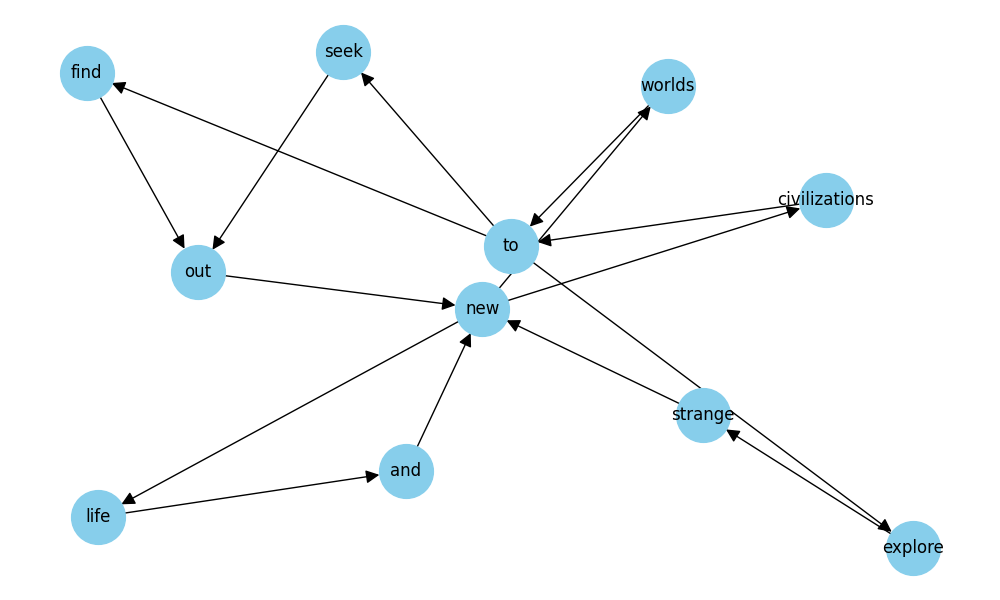
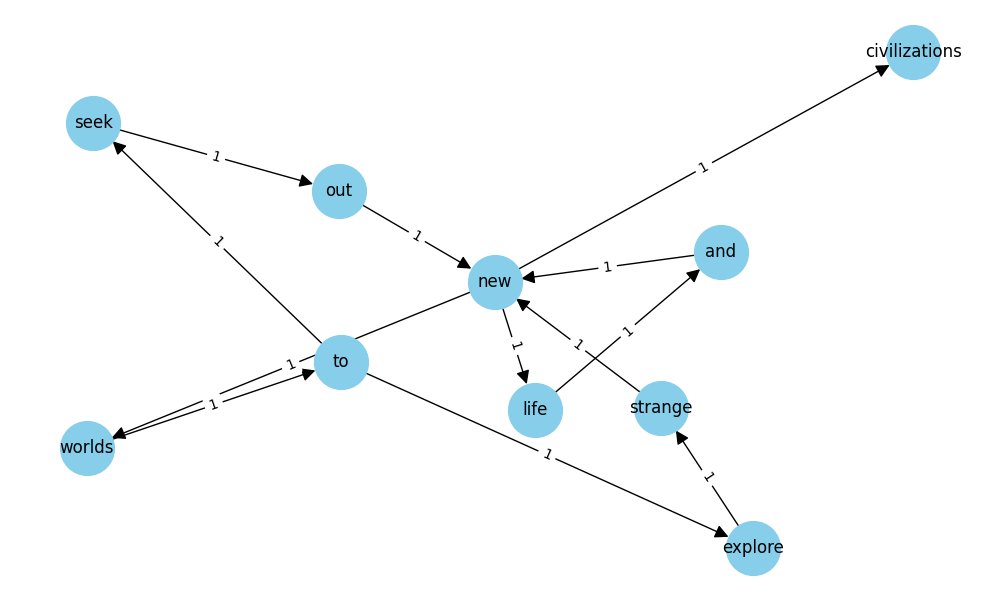
latest

diff --git a/main.py b/main.py
@@ -3,6 +3,9 @@ import tkinter as tk
 import networkx as nx
 import string
 import random
+import heapq
+from collections import defaultdict
+from collections import deque
 from matplotlib.figure import Figure
 from matplotlib.backends.backend_tkagg import FigureCanvasTkAgg
 from PIL import Image, ImageTk
@@ -12,7 +15,29 @@ def preprocess_text(text):
     # 替换非字母字符为空格
     translation_table = str.maketrans(string.punctuation, ' ' * len(string.punctuation))
     cleaned_text = text.translate(translation_table)
-    return cleaned_text
+    return cleaned_text.lower()
+
+
+def traverse_graph(graph):
+    # 初始化一个空列表存储节点名称
+    node_names = []
+
+    # 定义一个辅助函数进行深度优先搜索
+    def dfs(node):
+        # 将当前节点加入到节点名称列表中
+        node_names.append(node)
+
+        # 遍历当前节点的所有邻居节点
+        for neighbor in graph.neighbors(node):
+            # 如果邻居节点还没有被访问过,递归访问它
+            if neighbor not in node_names:
+                dfs(neighbor)
+
+    # 从图中任意一个节点开始进行深度优先搜索
+    for node in graph.nodes():
+        if node not in node_names:
+            dfs(node)
+    return node_names
 
 
 def build_directed_graph(text):
@@ -22,12 +47,19 @@ def build_directed_graph(text):
     # 创建有向图
     graph = nx.DiGraph()
 
-    # 添加节点和边
+    # 字典来存储每对相邻单词出现的次数
+    edge_weights = defaultdict(int)
+
+    # 遍历单词并记录权重
     for i in range(len(words) - 1):
         current_word = words[i].lower()
         next_word = words[i + 1].lower()
         if current_word != next_word:  # 排除自环
-            graph.add_edge(current_word, next_word)
+            edge_weights[(current_word, next_word)] += 1
+
+    # 添加节点和边到图中
+    for (current_word, next_word), weight in edge_weights.items():
+        graph.add_edge(current_word, next_word, weight=weight)
 
     return graph
 
@@ -36,26 +68,86 @@ def draw_and_save_graph(graph, output_file):
     # 创建一个新的 Figure 对象
     figure = plt.figure(figsize=(10, 6))
     pos = nx.spring_layout(graph)
+
+    # 绘制节点和边
     nx.draw(graph, pos, with_labels=True, node_color='skyblue', node_size=1500, edge_color='black', linewidths=1,
             arrowsize=20)
+
+    # 获取边的权值
+    edge_labels = nx.get_edge_attributes(graph, 'weight')
+
+    # 绘制边的权值
+    nx.draw_networkx_edge_labels(graph, pos, edge_labels=edge_labels)
+
     plt.title("Directed Graph")
 
     # 保存图形到磁盘
     plt.savefig(output_file)
     return figure
 
+def draw_and_save_graph_1(graph, paths, output_file):
+    figure = plt.figure(figsize=(10, 6))
+    pos = nx.spring_layout(graph)
+
+    # 绘制节点和边
+    nx.draw(graph, pos, with_labels=True, node_color='skyblue', node_size=1500, edge_color='black', linewidths=1,
+            arrowsize=20)
+
+    # 获取边的权值
+    edge_labels = nx.get_edge_attributes(graph, 'weight')
+    nx.draw_networkx_edge_labels(graph, pos, edge_labels=edge_labels)
+
+    # 高亮显示所有最短路径
+    if paths:
+        colors = plt.cm.get_cmap('tab10', len(paths))  # 使用颜色映射
+        for idx, path in enumerate(paths):
+            edges = [(path[i], path[i + 1]) for i in range(len(path) - 1)]
+            nx.draw_networkx_edges(graph, pos, edgelist=edges, edge_color=[colors(idx)], width=2.5)
+
+    plt.title("Directed Graph with Shortest Paths")
+
+    # 保存图形到磁盘
+    plt.savefig(output_file)
+    return figure
+
+
+def all_simple_paths(graph, start, goal):
+    def dfs(current, goal, path, visited, result):
+        if current == goal:
+            result.append(path[:])
+            return
+        for neighbor in graph[current]:
+            if neighbor not in visited:
+                visited.add(neighbor)
+                path.append(neighbor)
+                dfs(neighbor, goal, path, visited, result)
+                path.pop()
+                visited.remove(neighbor)
+
+    result = []
+    dfs(start, goal, [start], {start}, result)
+    return result
+
 
 def find_bridge_words(graph, word1, word2):
+    if word1 not in graph or word2 not in graph:
+        return None
+
     # 查找word1到word2的所有可能路径
-    all_paths = nx.all_simple_paths(graph, source=word1, target=word2)
+    try:
+        # all_paths = nx.all_simple_paths(graph, source=word1, target=word2)
+        all_paths = all_simple_paths(graph, word1, word2)
+    except nx.exception.NodeNotFound:
+        return None
 
     # 初始化桥接词列表
     bridge_words = []
 
     # 遍历每条路径
     for path in all_paths:
-        if len(path) == 3:
+        if len(path) == 3:  # 路径长度为3意味着有一个桥接词
             bridge_words.append(path[1])
+
     return bridge_words
 
 
@@ -63,30 +155,62 @@ def generate_by_bridge_words(graph, text):
     cleaned_text = preprocess_text(text)
     words = cleaned_text.split()
     word2add = []
+
+    # 寻找所有可能的桥接词并记录
     for i in range(len(words) - 1):
-        for j in range(i + 1, len(words) - 1):
-            bridge_words = find_bridge_words(graph, words[i], words[j])
-            if bridge_words:
-                word2add.append([words[i], words[j], random.choice(bridge_words)])
-    for triplet in word2add:
-        target_word = triplet[2]
-        first_word = triplet[0]
-        second_word = triplet[1]
-        # 找到第一个元素在s中的索引
-        try:
-            index = words.index(first_word)
-        except ValueError:
-            continue
-        # 在第一个元素后面继续搜索，直到找到第二个元素
-        if words[index + 1] == second_word:
-            # 将目标词插入到找到的位置
-            words.insert(index + 1, target_word)
+        bridge_words = find_bridge_words(graph, words[i], words[i + 1])
+        if bridge_words:
+            word2add.append((i, random.choice(bridge_words)))
+
+    # 按记录的位置插入桥接词
+    offset = 0
+    for index, bridge_word in word2add:
+        words.insert(index + 1 + offset, bridge_word)
+        offset += 1
+
     return words
 
+def all_shortest_paths(graph, start, target, weight='weight'):
+    # 使用优先队列跟踪当前节点的所有路径和距离
+    queue = [(0, start, [])]  # (累计权重, 当前节点, 路径)
+    min_dist = {start: 0}
+    all_paths = []
+
+    while queue:
+        cost, current_node, path = heapq.heappop(queue)
+        path = path + [current_node]
+
+        if current_node == target:
+            all_paths.append((cost, path))
+            continue
+
+        for neighbor, data in graph[current_node].items():
+            edge_weight = data.get(weight, 1)
+            new_cost = cost + edge_weight
+
+            if neighbor not in min_dist or new_cost <= min_dist[neighbor]:
+                min_dist[neighbor] = new_cost
+                heapq.heappush(queue, (new_cost, neighbor, path))
+
+    # 过滤出所有最短路径
+    if not all_paths:
+        return None
+
+    min_cost = min(all_paths, key=lambda x: x[0])[0]
+    shortest_paths = [path for cost, path in all_paths if cost == min_cost]
+
+    return shortest_paths
 
 def find_shortest(graph, word1, word2):
-    shortest_path = nx.shortest_path(graph, source=word1, target=word2)
-    return shortest_path
+    try:
+        # 使用Dijkstra算法查找带权图的最短路径
+        path = all_shortest_paths(graph, word1, word2, weight='weight')
+        figure = draw_and_save_graph_1(graph, path, "shortest_path.png")
+        return path
+    except nx.NetworkXNoPath:
+        return None
+    except nx.NodeNotFound:
+        return None
 
 
 def show_graph_in_window(graph, output_file):
@@ -168,13 +292,34 @@ def main():
 
     # ***************最短路径*************
     def open_shortpath_window():
+        def show_shortest_path2(graph, word1, word2):
+            shortest_path = find_shortest(graph, word1, word2)
+            for i in range(len(shortest_path)):
+                output_text2_short.insert(tk.END,
+                                        f"The shortest path from {word1} to {word2} is: {', '.join(shortest_path[i])}，len = {len(shortest_path[i])}\n")
+
+        def show_shortest_paths(graph, word):
+            node_names = traverse_graph(graph)
+            node_names.remove(word)
+            for node in node_names:
+                show_shortest_path2(graph, word, node)
+
         def show_shortest_path(graph):
             word1 = input_entry3.get().lower()
             word2 = input_entry4.get().lower()
-            shortest_path = find_shortest(graph, word1, word2)
-            output_text_short.delete("1.0", tk.END)  # 清空原有内容
-            output_text_short.insert(tk.END,
-                                     f"The shortest path from {word1} to {word2} is: {', '.join(shortest_path)}\n")
+            if (word1 == ''):
+                output_text2_short.delete("1.0", tk.END)  # 清空原有内容
+                show_shortest_paths(graph, word2)
+            elif (word2 == ''):
+                output_text2_short.delete("1.0", tk.END)  # 清空原有内容
+                show_shortest_paths(graph, word1)
+            
+            else:
+                shortest_path = find_shortest(graph, word1, word2)
+                output_text_short.delete("1.0", tk.END)  # 清空原有内容
+                for i in range(len(shortest_path)):
+                    output_text_short.insert(tk.END,
+                                            f"The shortest path from {word1} to {word2} is: {', '.join(shortest_path[i])}，len = {len(shortest_path[i])}\n")
 
         # 创建一个新的 Toplevel 窗口
         scrollable_window = tk.Toplevel(root)
@@ -209,6 +354,9 @@ def main():
 
         output_text_short = tk.Text(output_frame_short_path, height=5, width=50)
         output_text_short.pack()
+
+        output_text2_short = tk.Text(output_frame_short_path, height=60, width=50)
+        output_text2_short.pack()
 
         # 设置 Toplevel 窗口的大小
         scrollable_window.geometry("800x600")
